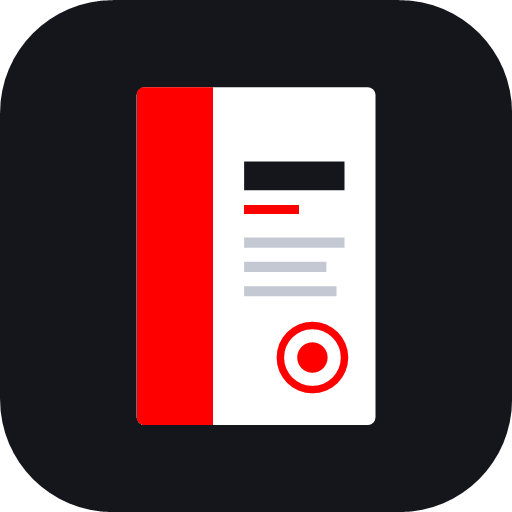
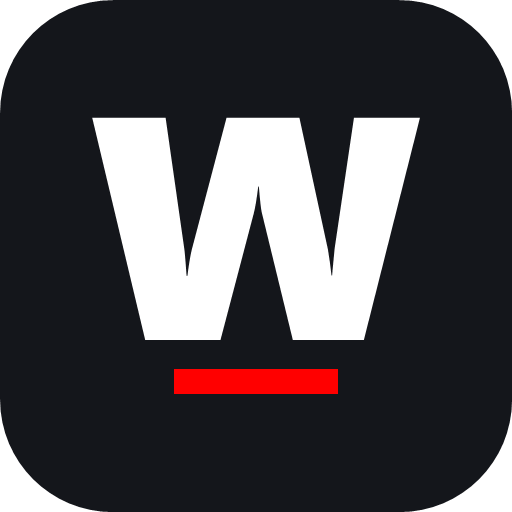
WarrantyX: uygulama simgesi W harfi
Koyu zeminde ağır beyaz W, altında kapaktaki gibi kırmızı çizgi. P&PX'in simgesinden ayrı durur.

Changed region(s): [[0.1562, 0.1562, 0.8438, 0.8438]]

diff --git a/apps/warrantyx/README.md b/apps/warrantyx/README.md
@@ -112,7 +112,7 @@ Seri No değişince dosya da yeni adla yazılır, eskisi silinir. Eski sürümle
 | `tools/gomulu-uret.js` | `assets/gomulu-*.js` üreticisi |
 | `manifest.webmanifest` | Uygulama bilgisi: ad, simgeler, kendi penceresi, Yeni Garanti Belgesi kısayolu |
 | `sw.js` | Uygulama katmanı (service worker): açılışta son sürüm, internetsiz açılış |
-| `assets/simge/` | Uygulama simgeleri (kırmızı bantlı garanti belgesi kapağı); `tools/simge-uret.ps1` üretir |
+| `assets/simge/` | Uygulama simgeleri (koyu zeminde ağır beyaz W, altında kırmızı çizgi); `tools/simge-uret.ps1` üretir |
 | `tools/yayin-hazirla.js` | Yayın sitesini hazırlar: dosyaları kopyalar, içerik özetlerini, sürüm damgasını, `sw.js` dosya listesini ve `surum.json` yazar |
 | `.github/workflows/yayin.yml` | `main` dalına gönderimde test ve GitHub Pages yayını |
 | `test/` | Birim ve veritabanı testleri (sahte GitHub ile) |
